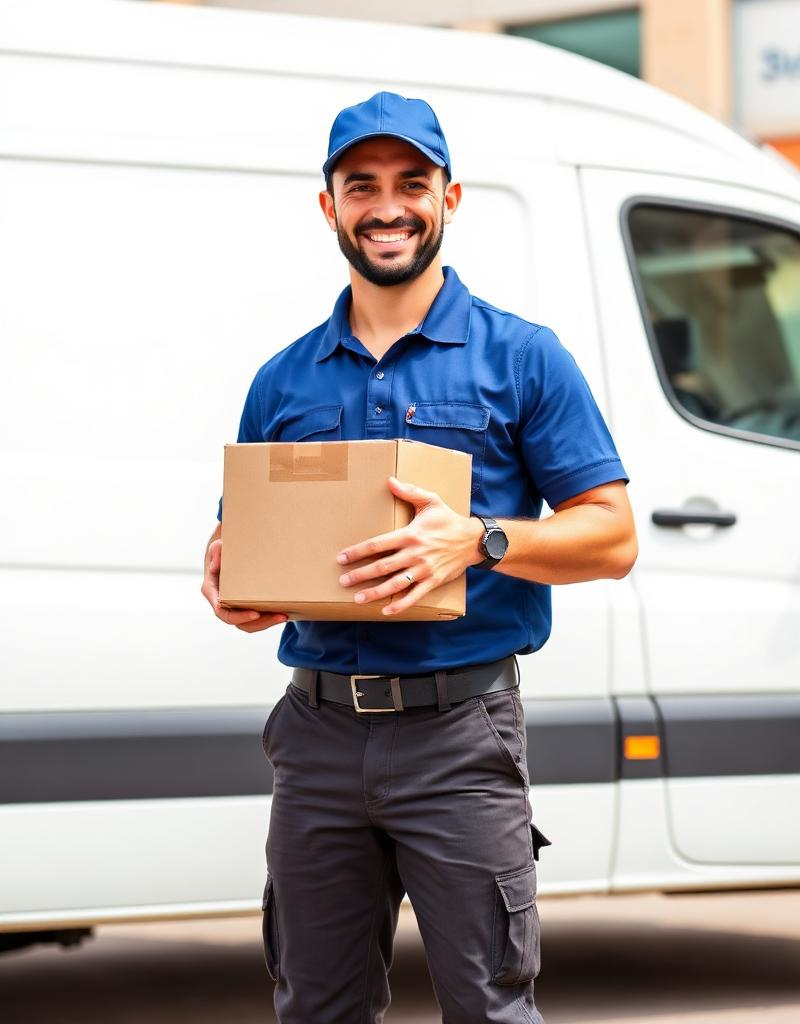
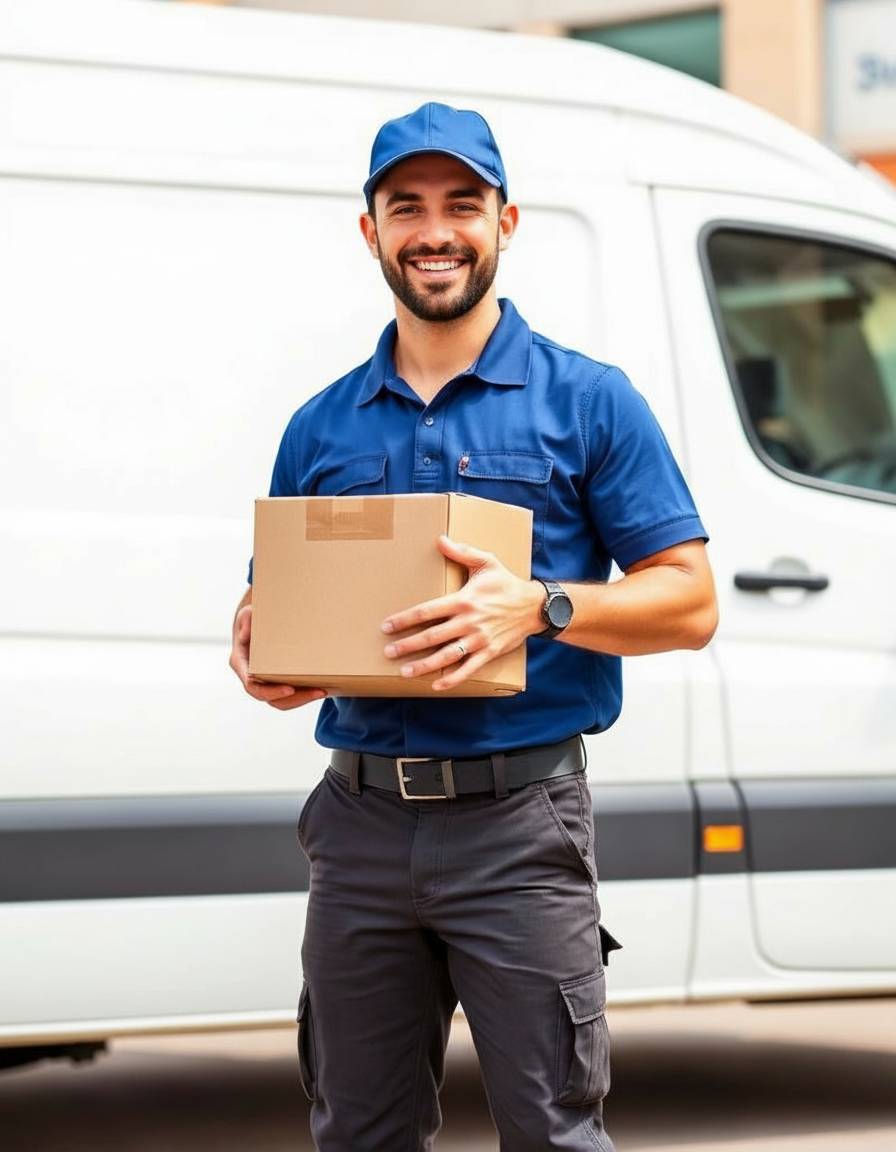
Changes

diff --git a/src/components/About.tsx b/src/components/About.tsx
@@ -21,7 +21,7 @@ const About = () => {
               <img
                 src={courier}
                 alt="Kurýr FA Dvořáček"
-                className="w-full h-[500px] object-cover"
+                className="w-full h-[600px] object-cover"
               />
               <div className="absolute inset-0 bg-gradient-to-tr from-primary/20 to-transparent" />
             </div>
